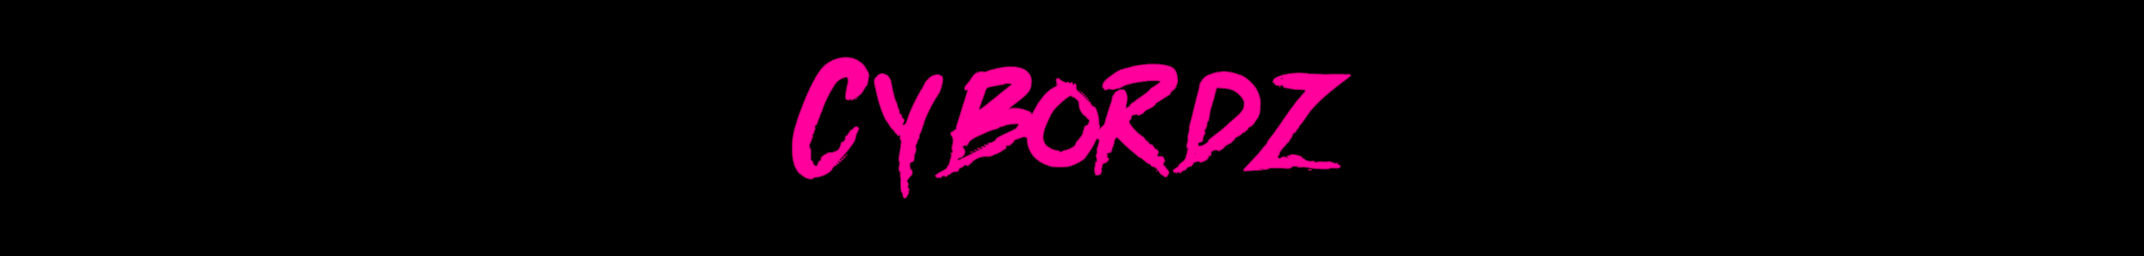
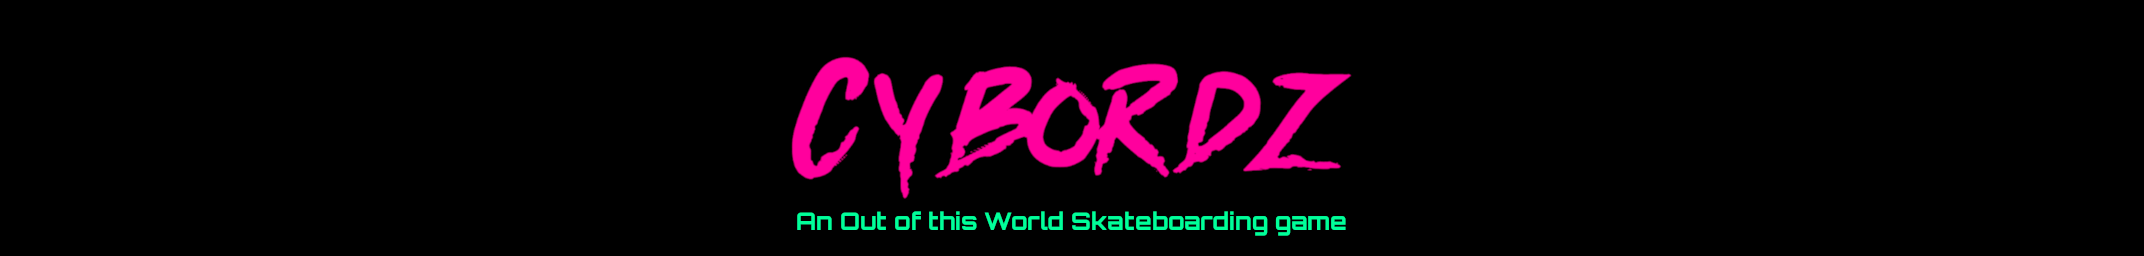
Updating color scheme

Changed region(s): [[0.375, 0.8125, 0.625, 0.9062]]

diff --git a/index.html b/index.html
@@ -33,7 +33,7 @@
 <div class="strip-container cybordz">
     <div class="strip">
         <a href="https://cybordz.com"><img class="title" alt="Cybordz" src="images/cybordz/title-logo.png" /></a>
-        <h1 class="subtitle">A skateboarding game where you score big to add time to the clock. Combine random items to boost your score in unexpected ways.</h1>
+        <h1 class="subtitle">An Out of this World Skateboarding game</h1>
         <p>Inspired by the THPS series and Risk of Rain 2, Cybordz is a fast-paced skateboarding game focused on reaching increasingly insane scores. Random items help you earn more points so you can keep the clock going. Can you make it to the end before time runs out?</p>
 
         <!-- Mailchimp Form -->
@@ -63,12 +63,7 @@
         <h2>Videos</h2>
         <div class="resizable-iframe">
             <div>
-                <iframe src="https://www.youtube.com/embed/GOOgal9cBUI?si=H9A5I_HkY70Gl3RP" title="YouTube video player" frameborder="0" allow="accelerometer; autoplay; clipboard-write; encrypted-media; gyroscope; picture-in-picture; web-share" referrerpolicy="strict-origin-when-cross-origin" allowfullscreen></iframe>
-            </div>
-        </div>
-        <div class="resizable-iframe">
-            <div>
-                <iframe src="https://www.youtube.com/embed/cOA1WBQkFPg?si=CVfmgGGSST-cafmC" title="YouTube video player" frameborder="0" allow="accelerometer; autoplay; clipboard-write; encrypted-media; gyroscope; picture-in-picture; web-share" referrerpolicy="strict-origin-when-cross-origin" allowfullscreen></iframe>
+                <iframe src="https://www.youtube.com/embed/videoseries?list=PL-ywxh0Y94qmXWRakTUaePNBX_fuemBVK&rel=0&loop=1" title="YouTube video player" frameborder="0" allow="accelerometer; autoplay; clipboard-write; encrypted-media; gyroscope; picture-in-picture; web-share" referrerpolicy="strict-origin-when-cross-origin" allowfullscreen></iframe>
             </div>
         </div>
     </div>

diff --git a/css/main.css b/css/main.css
@@ -72,7 +72,7 @@ body {
 }
 
 .strip-container.cybordz {
-    background-color: #070707;
+    background-color: #0A0F1A;
 }
 .strip-container.cybordz .strip {
     /*background: url("../images/cybordz/hex.png") repeat fixed top left;*/
@@ -262,7 +262,7 @@ a {
 
 
 .cybordz .strip h2 {
-    color: #52D6FC;
+    color: #00D4FF;
 }
 
 .cybordz h2 {
@@ -273,12 +273,12 @@ a {
 .cybordz h1.subtitle {
     font-style: italic;
     font-weight: normal;
-    font-size: 13pt;
+    font-size: 17pt;
     max-width: 630px;
     margin: 15px auto;
     padding-bottom: 20px;
     font-family: Consolas, serif;
-    color: #52D6FC;
+    color: #00FF9A;
 }
 
 #mc_embed_shell {
